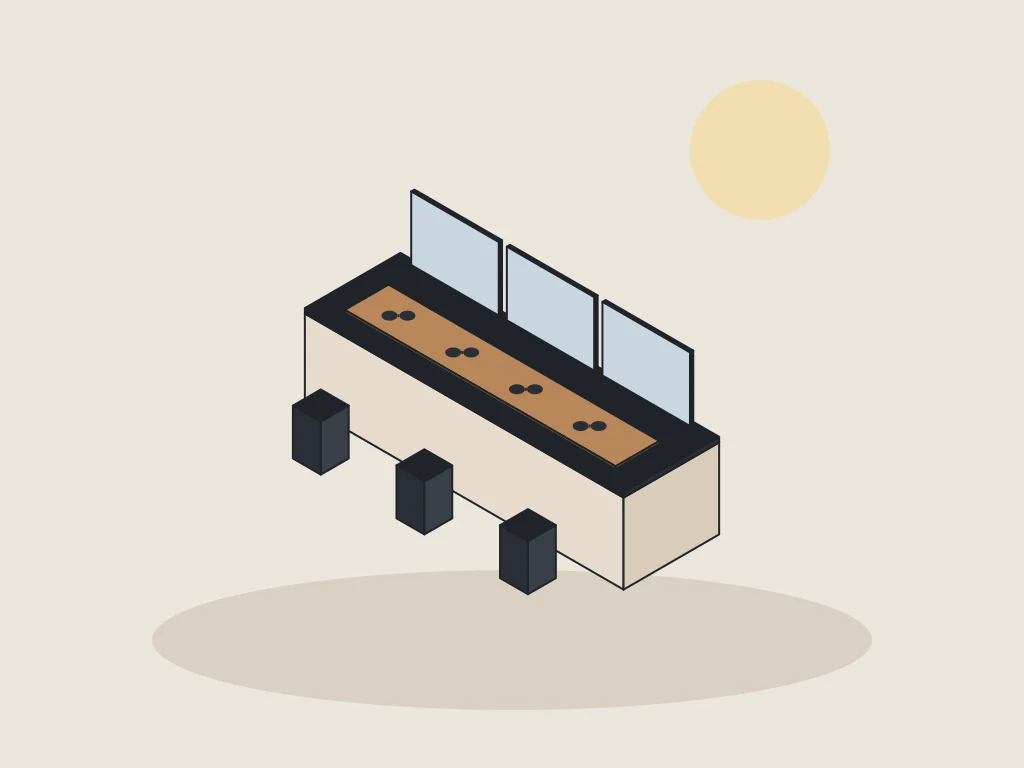
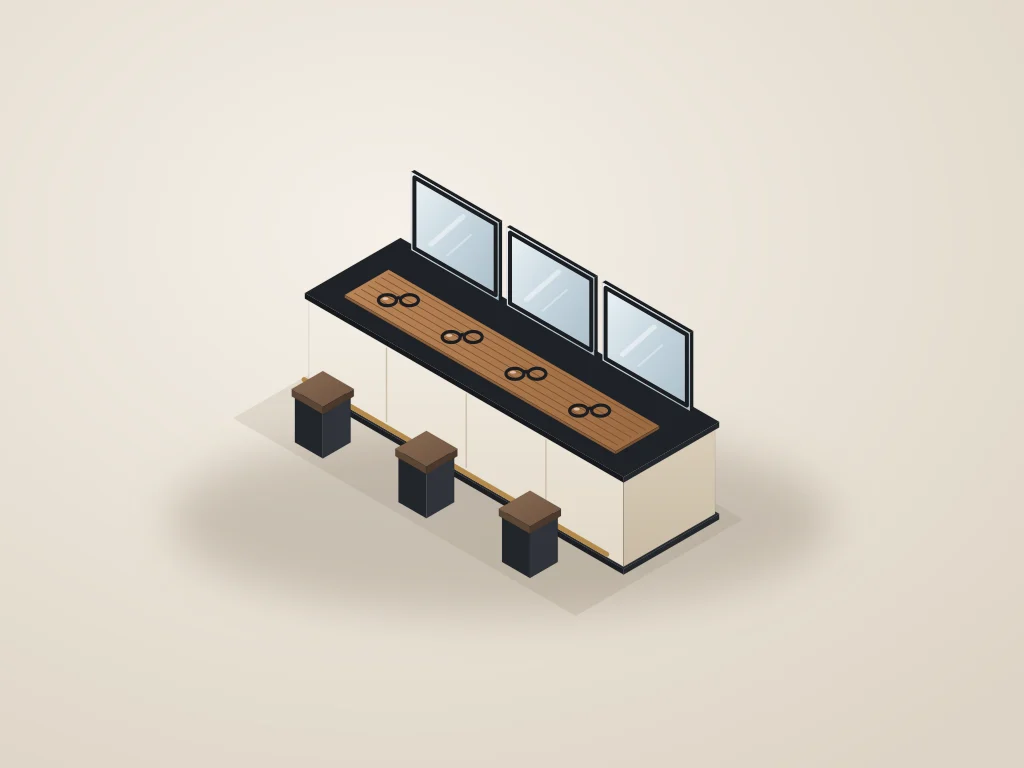
feat(web): enrich the Seongsu pop-up sample
Draw the storefront and east glazing (previously hidden under the walls),
ceiling heights, column size, a legend and floor notes on the plan, and
render the fitting-bar concept with shaded materials and a contact shadow.
Correct the stated floor area to 588 m² and carry ceiling heights and
window guidance into the brief, since plan reading does not set heights.

Changed region(s): [[0.1562, 0.2188, 0.8125, 0.7812], [0.6562, 0.0938, 0.8125, 0.3125]]

diff --git a/data/samples/README.md b/data/samples/README.md
@@ -32,12 +32,13 @@ CAD도 있다: Moscone은 층별 DWG(2026년), KINTEX는 CAD zip(2005–2007년)
 
 | 파일 | 출처 | 설명 |
 |---|---|---|
-| `seongsu-popup-plan.png` | 이 저장소에서 작성 · [`web/scripts/build-sample-popup.mjs`](../../web/scripts/build-sample-popup.mjs)로 생성 | 1층 평면, 약 32 × 22 m (약 440㎡), 1580×1320 |
+| `seongsu-popup-plan.png` | 이 저장소에서 작성 · [`web/scripts/build-sample-popup.mjs`](../../web/scripts/build-sample-popup.mjs)로 생성 | 1층 평면, 약 32 × 22 m (약 588㎡), 1580×1320 |
 
 - 👍 **실제 건물이 아닌 오리지널 도면**이다. 외부 저작물을 쓰지 않아 재배포 조건 문제가 없다. 수정할 때는 스크립트를 고친 뒤 `web/`에서 `node scripts/build-sample-popup.mjs`로 다시 만든다.
 - 👍 한눈에 들어오는 크기에 네모가 아닌 형태다: 사선으로 꺾인 정문 모서리, 남서쪽이 파인 L자 바닥, 화장실 코어와 창고, 철거할 수 없는 기둥 3개, 남쪽 서비스 도어.
 - 👍 축척 막대(0–10 m)와 각 변의 치수(26 m, 16 m, 18 m, 15 m)가 적혀 있어 Muse가 축척을 확정할 수 있다. 벽은 굵은 실선, 치수선은 가는 회색 선이라 서로 구분된다.
-- 👎 가상의 공간이라 실제 소방·구조 조건이나 천장고 정보가 없다. 치수는 설계 연습용 가정이다.
+- 👍 북쪽 쇼윈도 3곳과 동쪽 창(이중선), 실별 천장고(메인 홀 4.2 m, 아넥스 3.6 m), 기둥 크기(0.6 m), 범례와 바닥 마감·면적 메모가 있다. 천장고는 도면 판독 대상이 아니라서 기획서에도 같은 값을 적었다.
+- 👎 가상의 공간이라 실제 소방·구조 조건이 없다. 치수와 천장고는 설계 연습용 가정이다.
 
 ## kintex/ — KINTEX (고양)
 
@@ -98,7 +99,7 @@ CAD도 있다: Moscone은 층별 DWG(2026년), KINTEX는 CAD zip(2005–2007년)
 
 이미지는 2026-11-02 이 프로젝트를 위해 imagegen으로 생성한 신규 콘셉트다(KINTEX, Moscone). 입력 참조 이미지 없이 작성한 프롬프트를 사용했으며 외부 제품·브랜드 사진, 로고, 공식 가이드 도형은 사용하지 않았다. 타사 원본의 재배포 조건에 의존하는 자산이 아니다. 생성물의 법적 독점권을 주장하지 않는다. 단색 배경에서 하나의 전시 가구가 전부 보이는 3/4 시점, 재료가 읽히는 조명, 글자·로고·사람 없는 구성을 공통으로 지정했다. 개별 디자인 지시는 각각 (1) 보라 아치 배경판+코럴 받침+일체형 선반, (2) 목재 상판+녹색 리브 전면+청색 측면 카운터다. 원본 생성 PNG를 1024px 이내 WebP 품질 86으로 정규화했다.
 
-성수 팝업의 콘셉트 이미지는 이미지 생성 모델이 아니라 [`web/scripts/build-sample-popup.mjs`](../../web/scripts/build-sample-popup.mjs)의 SVG 아이소메트릭 도형으로 2026-11-03에 직접 그려 1024×768 WebP 품질 86으로 저장했다. 같은 공통 지시(가구 하나, 3/4 시점, 단색 배경, 글자·로고·사람 없음)를 따랐다.
+성수 팝업의 콘셉트 이미지는 이미지 생성 모델이 아니라 [`web/scripts/build-sample-popup.mjs`](../../web/scripts/build-sample-popup.mjs)의 SVG 아이소메트릭 도형(그라데이션 면, 흐린 접지 그림자)으로 2026-11-03에 직접 그려 1024×768 WebP 품질 86으로 저장했다. 같은 공통 지시(가구 하나, 3/4 시점, 단색 배경, 글자·로고·사람 없음)를 따랐다.
 
 이는 실제 설치 사례나 3D 복원 결과가 아닌 **디자인 입력 자료**다. 본문의 폭은 기획 가정이며 이미지에서 측정한 값이 아니다. Muse는 지원되는 공간 요소로 형태·색상·재료를 해석할 수 있지만 이미지의 세부 곡면이나 제작 구조를 그대로 구현했다고 주장하면 안 된다. 공식 기사 링크는 문맥 파악용 북마크로만 저장하고, 기사 이미지·로고·원문을 재배포하지 않는다.
 
